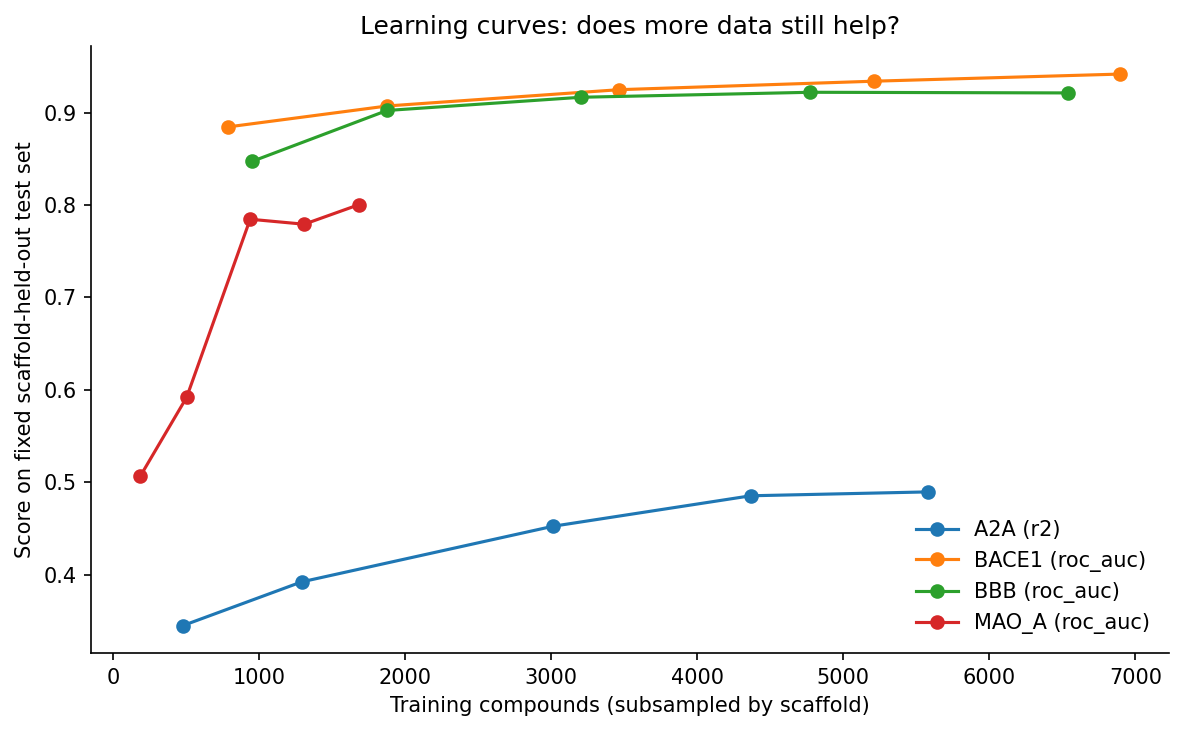
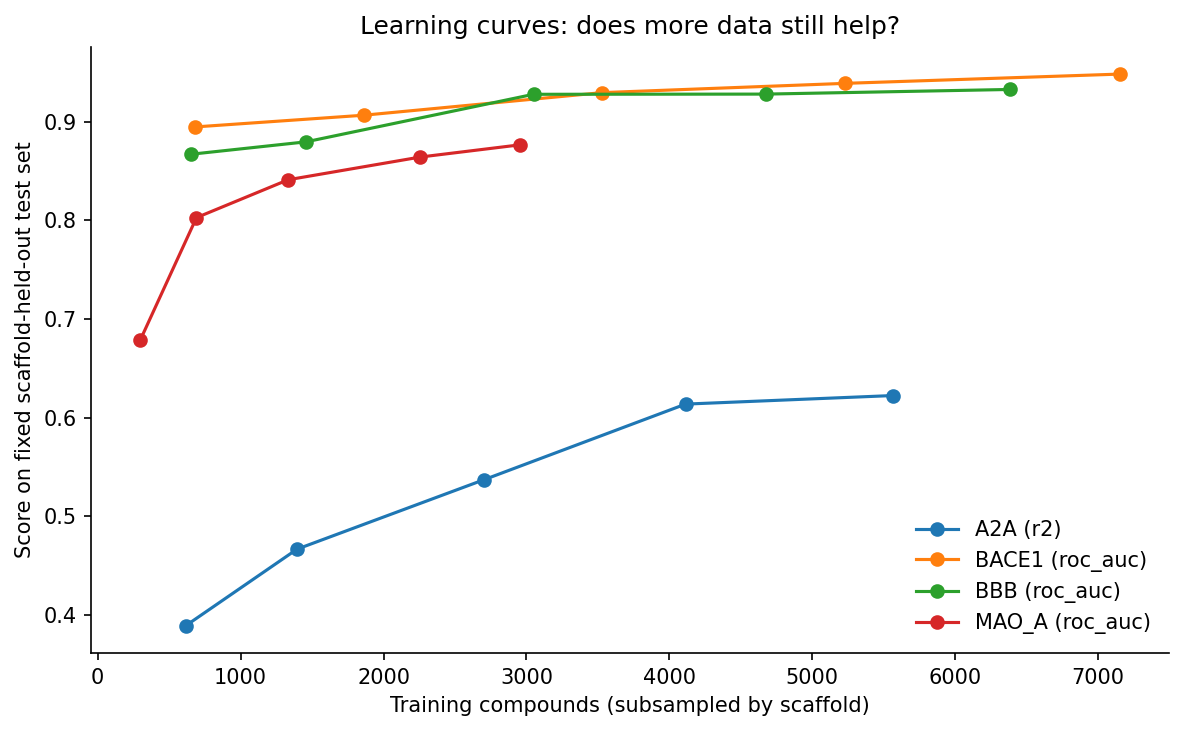
Regenerate the last stale table, and put both supporting analyses under the checker
The learning curve was computed on 21 July and quoted in a report describing a
panel refitted on 19 August, so its numbers described estimators that had been
replaced. It is regenerated, and the conclusion it exists to support survives
the refit: the last doubling of training data buys between 0.005 and 0.012, so
the curves have flattened and more data would not have changed much. That is the
argument for the effort having gone into recovering the negative class instead.
No staleness note remains anywhere in the report.

The reason it went stale is the more useful finding. Neither the learning curve
nor the feature ablation was declared in the freshness graph, so nothing checked
either of them, and I found both only by reading file dates by hand during the
audit. Both are now in the graph, which means the pre-commit hook covers them.

That was the seventh instance in this project of one shape: a derived artefact,
a changed input, and no detection. The first six were closed by the panel
registry and by the checker itself. This one was outside the checker's field of
view entirely, which is the failure mode a checker is least able to report on,
and the only remedy is that the graph names everything a document quotes.

diff --git a/tools/check_freshness.py b/tools/check_freshness.py
@@ -107,6 +107,15 @@ GRAPH: list[tuple[str, list[str], str]] = [
      "python src/brainsafe/evaluation/validate_inversion.py"),
     ("results/tables/integrity_audit.csv", ["models_rf/BBB.joblib"],
      "python src/brainsafe/evaluation/integrity_audit.py"),
+
+    # Two supporting analyses that were absent from this graph and had gone stale unnoticed. Both
+    # predate the neutralisation retrain by a month, and both are quoted in the technical report, so
+    # nothing would have caught them except someone checking file dates by hand. Being outside the
+    # graph is exactly what let them drift, which is the defect this checker exists to prevent.
+    ("results/tables/feature_block_ablation.csv", ["models_rf/BBB.joblib"],
+     "python src/brainsafe/evaluation/feature_analysis.py"),
+    ("results/tables/learning_curve.csv", ["models_rf/BBB.joblib"],
+     "python src/brainsafe/evaluation/learning_curve.py"),
     ("results/tables/noncns_specificity_summary.csv",
      ["models_rf/BBB.joblib", "models_rf/binder_modes.json"],
      "python src/brainsafe/evaluation/noncns_specificity.py"),

diff --git a/docs/TECHNICAL_REPORT.md b/docs/TECHNICAL_REPORT.md
@@ -824,33 +824,31 @@ physicochemistry is the mechanism, and contribute least where binding is substru
 
 ### 7.3 Would more data have helped?
 
-> **Note.** This table was computed on 2026-07-21, before the current panel was refitted, so its absolute values describe the previous estimators. It is retained because the comparison it makes is between *methods* on identical data, which the refit does not change, and it is marked rather than silently reprinted.
-
 
 Performance against training-set fraction.
 
 | endpoint | task | train_fraction | n_train | n_test | metric | score |
 |---|---|---|---|---|---|---|
-| BBB | classification | 0.1 | 955 | 1269 | roc_auc | 0.8473 |
-| BBB | classification | 0.25 | 1877 | 1269 | roc_auc | 0.9023 |
-| BBB | classification | 0.5 | 3205 | 1269 | roc_auc | 0.9166 |
-| BBB | classification | 0.75 | 4776 | 1269 | roc_auc | 0.922 |
-| BBB | classification | 1.0 | 6536 | 1269 | roc_auc | 0.9213 |
-| MAO_A | classification | 0.1 | 187 | 541 | roc_auc | 0.5063 |
-| MAO_A | classification | 0.25 | 505 | 541 | roc_auc | 0.5918 |
-| MAO_A | classification | 0.5 | 940 | 541 | roc_auc | 0.7846 |
-| MAO_A | classification | 0.75 | 1310 | 541 | roc_auc | 0.7792 |
-| MAO_A | classification | 1.0 | 1687 | 541 | roc_auc | 0.8005 |
-| BACE1 | classification | 0.1 | 788 | 1604 | roc_auc | 0.8845 |
-| BACE1 | classification | 0.25 | 1880 | 1604 | roc_auc | 0.9072 |
-| BACE1 | classification | 0.5 | 3466 | 1604 | roc_auc | 0.9248 |
-| BACE1 | classification | 0.75 | 5213 | 1604 | roc_auc | 0.934 |
-| BACE1 | classification | 1.0 | 6897 | 1604 | roc_auc | 0.9417 |
-| A2A | regression | 0.1 | 481 | 1207 | r2 | 0.3449 |
-| A2A | regression | 0.25 | 1292 | 1207 | r2 | 0.3921 |
-| A2A | regression | 0.5 | 3013 | 1207 | r2 | 0.4523 |
-| A2A | regression | 0.75 | 4367 | 1207 | r2 | 0.4853 |
-| A2A | regression | 1.0 | 5578 | 1207 | r2 | 0.4895 |
+| BBB | classification | 0.1 | 650 | 1423 | roc_auc | 0.8668 |
+| BBB | classification | 0.25 | 1457 | 1423 | roc_auc | 0.8794 |
+| BBB | classification | 0.5 | 3050 | 1423 | roc_auc | 0.9276 |
+| BBB | classification | 0.75 | 4676 | 1423 | roc_auc | 0.9278 |
+| BBB | classification | 1.0 | 6382 | 1423 | roc_auc | 0.9325 |
+| MAO_A | classification | 0.1 | 297 | 833 | roc_auc | 0.6783 |
+| MAO_A | classification | 0.25 | 691 | 833 | roc_auc | 0.8026 |
+| MAO_A | classification | 0.5 | 1333 | 833 | roc_auc | 0.841 |
+| MAO_A | classification | 0.75 | 2257 | 833 | roc_auc | 0.864 |
+| MAO_A | classification | 1.0 | 2956 | 833 | roc_auc | 0.8764 |
+| BACE1 | classification | 0.1 | 679 | 1806 | roc_auc | 0.8945 |
+| BACE1 | classification | 0.25 | 1862 | 1806 | roc_auc | 0.9064 |
+| BACE1 | classification | 0.5 | 3530 | 1806 | roc_auc | 0.9293 |
+| BACE1 | classification | 0.75 | 5233 | 1806 | roc_auc | 0.9387 |
+| BACE1 | classification | 1.0 | 7156 | 1806 | roc_auc | 0.9481 |
+| A2A | regression | 0.1 | 618 | 1433 | r2 | 0.3892 |
+| A2A | regression | 0.25 | 1395 | 1433 | r2 | 0.4666 |
+| A2A | regression | 0.5 | 2702 | 1433 | r2 | 0.5369 |
+| A2A | regression | 0.75 | 4114 | 1433 | r2 | 0.6136 |
+| A2A | regression | 1.0 | 5568 | 1433 | r2 | 0.6223 |
 
 The curves flatten well before the full training set, which is the argument against expecting a
 larger pull to change the result, and the argument for the effort having gone into the *negative
